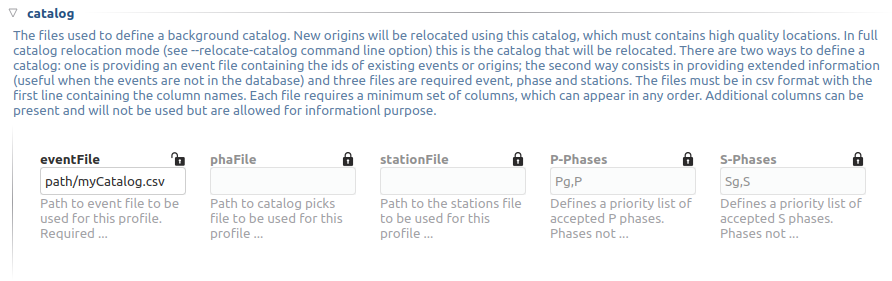
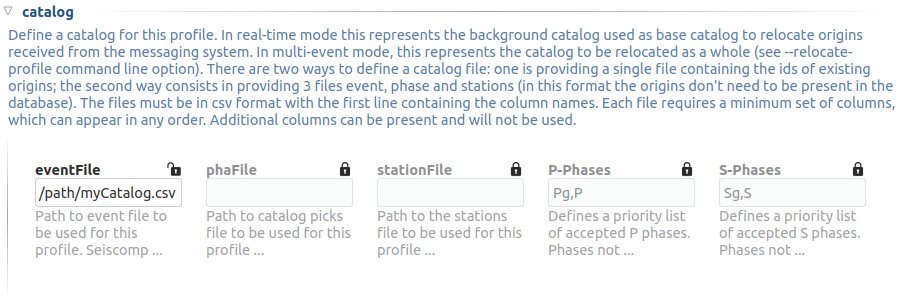
DOC: minor improvements + screenshots of new configuration

diff --git a/README.md b/README.md
@@ -155,7 +155,7 @@ As an example you can see below two catalogs before and after scrtdd relocation:
 
 ![Relocation example picture](/data/multiEventRelocationExample.png?raw=true "Relocation example")
 
-The relocation output files (reloc-event.csv reloc-phase.csv and reloc-stations.csv) will become the background catalog used in real-time relocation and this is the only output we need to keep. The profile configuration can be now deleted or, in the case we want to kept it, it has to be removed from the list of active profiles (`scrtdd.activeProfiles`). 
+The relocation output files (reloc-event.csv reloc-phase.csv and reloc-stations.csv) will become the background catalog used in real-time relocation and this is the only output we need to keep from the relocation process. The profile configuration can be now deleted or, in the case we want to kept it, it has to be removed from the list of active profiles (`scrtdd.activeProfiles`) to avoid interaction with real-time processing.
 
 Now that we have a high quality background catalog we are ready to perform real-time relocation. For that we will create a new profile whose catalog will be the relocation output files:
 
@@ -241,9 +241,9 @@ To help figuring out the right values for cross-correlation the log file (or con
 We can see that the statistics are broken down in actual picks and theoretical picks. This is because scrtdd computes theoretical picks so that they can be used in cross-correlation. If the resulting correlation coefficient is good enough the result is used in the double-difference system inversion. This is especially useful to increase the number of observations in real-time when automatic origins have only few automatic picks/phases. A new pick is also created and added to the relocated origin when the cross-correlation results are good enough.
 
 
-### 2.2 EvalXcorr command
+### 2.2 Eval-xcorr command
 
-A more sophisticated method for evaluating the settings is the `--eval-xcorr' command (here we use `--verbosity=2` because the statistics are printed at this log level, useful to skip other information):
+A more sophisticated method for evaluating the settings is the `--eval-xcorr` command (here we use `--verbosity=2` because the statistics are printed at this log level, useful to skip other information):
 
 ```
 scrtdd --eval-xcorr profileName --verbosity=2 --console=1
